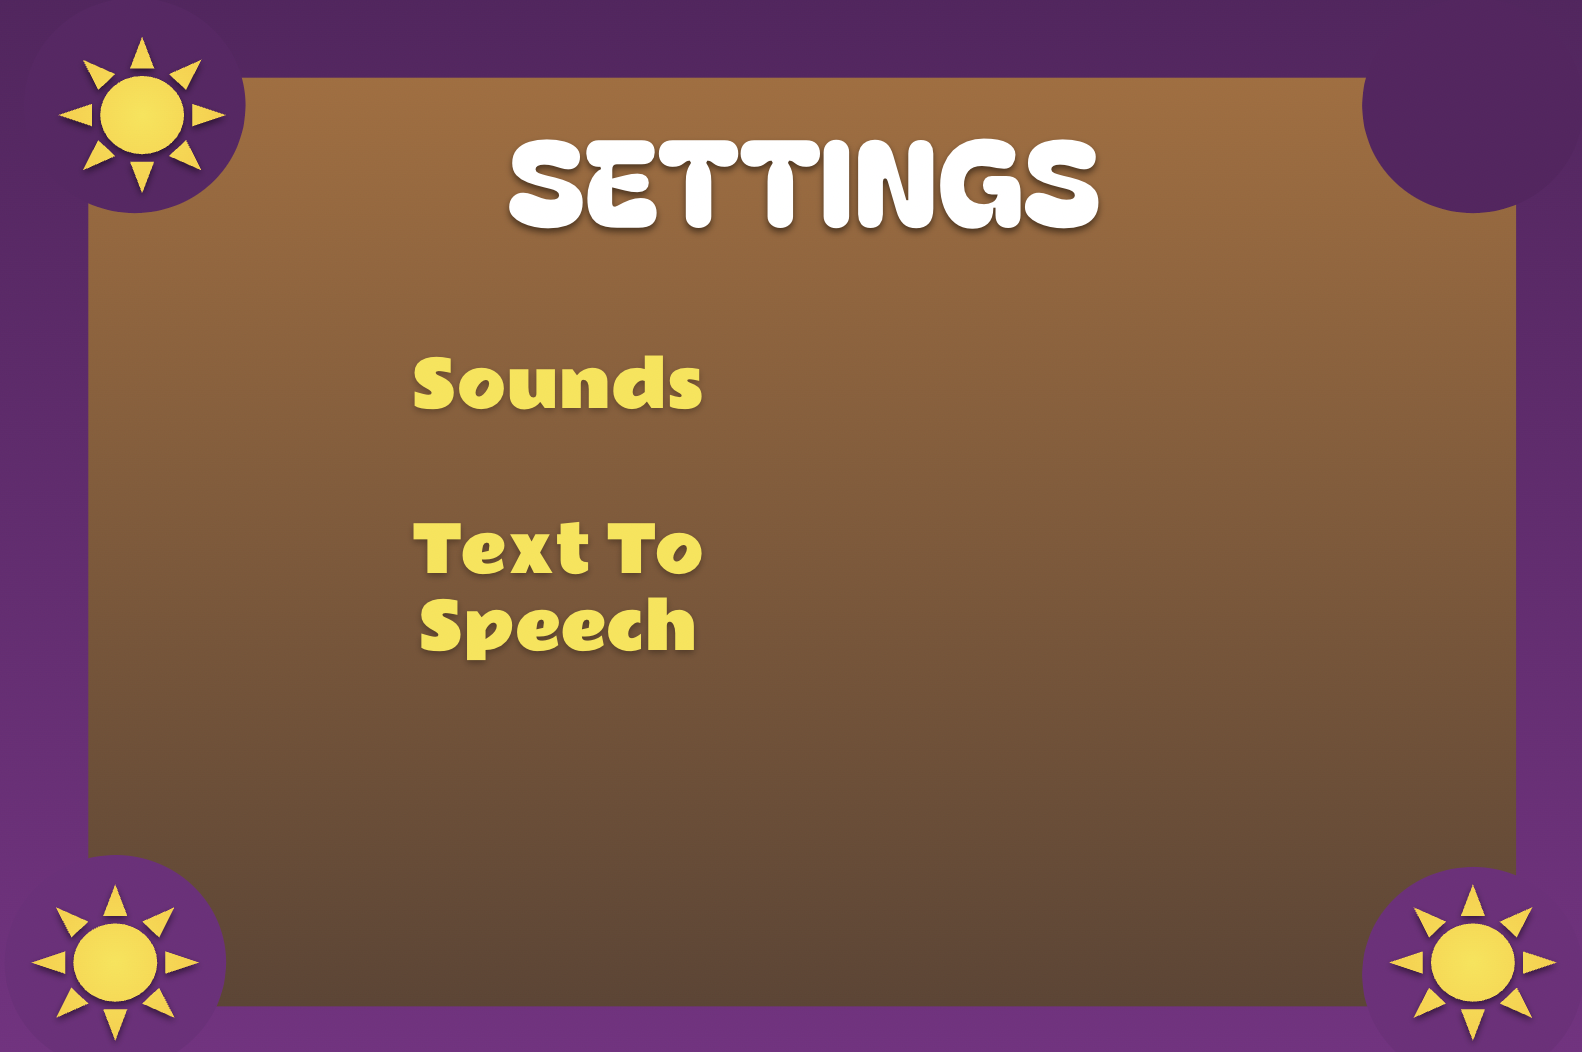
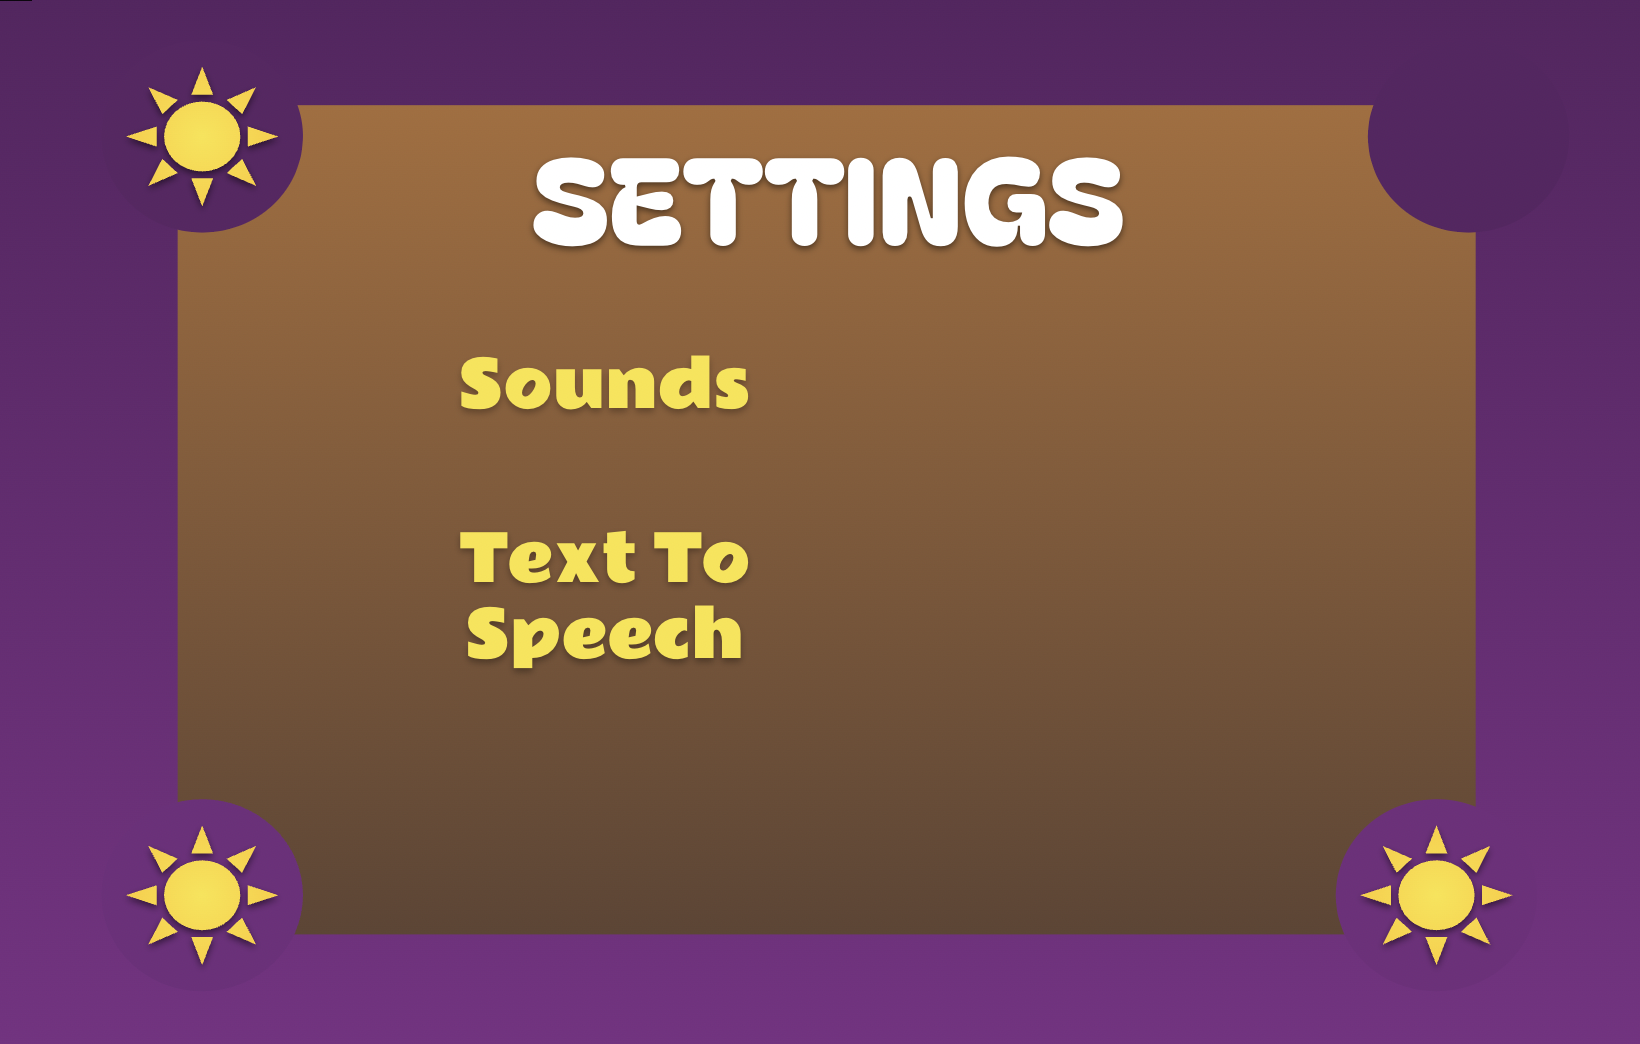
feat: no text to speech when it is turned off
This commit adds the new feature of disabling text to speech when it is turned off throught the settings. Settings scene also updated to match bigger size

Changed region(s): [[0.031, 0.0307, 0.9912, 0.9808], [0.2478, 0.4904, 0.4646, 0.6437], [0.2478, 0.3372, 0.4646, 0.3985]]

diff --git a/src/main/java/nz/ac/auckland/se206/controllers/LabController.java b/src/main/java/nz/ac/auckland/se206/controllers/LabController.java
@@ -393,25 +393,32 @@ public class LabController implements TimeManager.TimeUpdateListener {
     if (GameState.isRiddleResolved && !GameState.isLabCollected) {
       imgViewIngredient.setVisible(true);
       txtSpeech.setText("What a pretty gem!");
-      // textToSpeech.speak("What a pretty gem!");
-            Thread speachThread =
-          new Thread(
-              () -> {
-                textToSpeech.speak("What a pretty gem!");;
-              });
-      speachThread.start();
+
+      if (GameState.isTextToSpeechEnabled == true) {
+        // textToSpeech.speak("What a pretty gem!");
+        Thread speachThread =
+            new Thread(
+                () -> {
+                  textToSpeech.speak("What a pretty gem!");
+                  ;
+                });
+        speachThread.start();
+      }
       pnSpeech.setVisible(true);
       imgViewJewellery.setVisible(false);
       animationLabObjectThread.start();
     } else {
       txtSpeech.setText("The jewellery box is locked");
-      //textToSpeech.speak("The jewellery box is locked");
-      Thread speachThread =
-      new Thread(
-          () -> {
-             textToSpeech.speak("The jewellery box is locked");
-          });
-    speachThread.start();
+
+      if (GameState.isTextToSpeechEnabled == true) {
+        // textToSpeech.speak("The jewellery box is locked");
+        Thread speachThread =
+            new Thread(
+                () -> {
+                  textToSpeech.speak("The jewellery box is locked");
+                });
+        speachThread.start();
+      }
       pnSpeech.setVisible(true);
     }
   }
@@ -426,13 +433,15 @@ public class LabController implements TimeManager.TimeUpdateListener {
     // Indicate that the lever is pulled
     GameState.isLeverPulled = true;
     txtSpeech.setText("The jewellery box is playing music!");
-    // textToSpeech.speak("The jewellery box is playing music!");
-    Thread speachThread =
-      new Thread(
-          () -> {
-              textToSpeech.speak("The jewellery box is playing music!");
-          });
-    speachThread.start();
+    if (GameState.isTextToSpeechEnabled == true) {
+      // textToSpeech.speak("The jewellery box is playing music!");
+      Thread speachThread =
+          new Thread(
+              () -> {
+                textToSpeech.speak("The jewellery box is playing music!");
+              });
+      speachThread.start();
+    }
     pnSpeech.setVisible(true);
     imgViewJewellery.setVisible(true);
     // Start the animtion of the jewellery box
@@ -464,13 +473,16 @@ public class LabController implements TimeManager.TimeUpdateListener {
       pnCauldronOpacity.setVisible(true);
       // Make the wizard inform the user on what to do
       txtSpeech.setText("Follow the recipe to make the shrinking potion!");
-      // textToSpeech.speak("Follow the recipe to make the shrinking potion!");
-      Thread speachThread =
-      new Thread(
-          () -> {
-              textToSpeech.speak("Follow the recipe to make the shrinking potion!");
-          });
-    speachThread.start();
+
+      if (GameState.isTextToSpeechEnabled == true) {
+        // textToSpeech.speak("Follow the recipe to make the shrinking potion!");
+        Thread speachThread =
+            new Thread(
+                () -> {
+                  textToSpeech.speak("Follow the recipe to make the shrinking potion!");
+                });
+        speachThread.start();
+      }
 
       pnSpeech.setVisible(true);
     }
@@ -658,14 +670,16 @@ public class LabController implements TimeManager.TimeUpdateListener {
   @FXML
   private void onIngredientClicked(MouseEvent event) {
     if (GameState.isRiddleResolved) {
-      // Play the textToSpeech using a thread to make sure the app doesnt freeze
-      Thread speachThread =
-          new Thread(
-              () -> {
-                //TextToSpeech textToSpeech = new TextToSpeech();
-                textToSpeech.speak("Item picked up");
-              });
-      speachThread.start();
+      if (GameState.isTextToSpeechEnabled == true) {
+        // Play the textToSpeech using a thread to make sure the app doesnt freeze
+        Thread speachThread =
+            new Thread(
+                () -> {
+                  // TextToSpeech textToSpeech = new TextToSpeech();
+                  textToSpeech.speak("Item picked up");
+                });
+        speachThread.start();
+      }
       // Remove the item and update the GameState
       GameState.isLabCollected = true;
       GameState.itemsCollected++;
@@ -699,13 +713,16 @@ public class LabController implements TimeManager.TimeUpdateListener {
       App.setUi(AppUi.WIN);
     } else {
       txtSpeech.setText("You can't escape yet! The potion hasn't been made");
-      // textToSpeech.speak("You can't escape yet! The potion hasn't been made");
-      Thread speachThread =
-      new Thread(
-          () -> {
-              textToSpeech.speak("You can't escape yet! The potion hasn't been made");
-          });
-    speachThread.start();
+
+      if (GameState.isTextToSpeechEnabled == true) {
+        // textToSpeech.speak("You can't escape yet! The potion hasn't been made");
+        Thread speachThread =
+            new Thread(
+                () -> {
+                  textToSpeech.speak("You can't escape yet! The potion hasn't been made");
+                });
+        speachThread.start();
+      }
       pnSpeech.setVisible(true);
     }
   }

diff --git a/src/main/java/nz/ac/auckland/se206/controllers/ForestRoomController.java b/src/main/java/nz/ac/auckland/se206/controllers/ForestRoomController.java
@@ -78,7 +78,6 @@ public class ForestRoomController implements TimeManager.TimeUpdateListener {
   @FXML private Text txtSpeech;
   private TextToSpeech textToSpeech = new TextToSpeech();
 
-
   /** Initializes the room view, it is called when the room loads. */
   public void initialize() {
 
@@ -156,17 +155,18 @@ public class ForestRoomController implements TimeManager.TimeUpdateListener {
                         txtSpeech.setText("You fished up the correct ingredient!");
                         pnSpeech.setVisible(true);
                       });
-                  Thread speachThread =
-                   new Thread(
-                          () -> {
-                            textToSpeech.speak("You fished up the correct ingredient!");;
-                          });
-                  speachThread.start();
-                      
-                      
+                  if (GameState.isTextToSpeechEnabled == true) {
+                    Thread speachThread =
+                        new Thread(
+                            () -> {
+                              textToSpeech.speak("You fished up the correct ingredient!");
+                              ;
+                            });
+                    speachThread.start();
+                  }
+
                   GameState.isFishingComplete = true;
                   correctImageView = imgViewSpiralFrog;
-
                 }
 
                 // he slider should not move anymore
@@ -228,10 +228,15 @@ public class ForestRoomController implements TimeManager.TimeUpdateListener {
                         txtSpeech.setText("You fished up the correct ingredient!");
                         pnSpeech.setVisible(true);
                       });
-                  Thread speachThread =new Thread(() -> {
-                            textToSpeech.speak("You fished up the correct ingredient!");;
-                          });
-                  speachThread.start();
+                  if (GameState.isTextToSpeechEnabled == true) {
+                    Thread speachThread =
+                        new Thread(
+                            () -> {
+                              textToSpeech.speak("You fished up the correct ingredient!");
+                              ;
+                            });
+                    speachThread.start();
+                  }
                   GameState.isFishingComplete = true;
                   correctImageView = imgViewBug;
                 }
@@ -286,10 +291,15 @@ public class ForestRoomController implements TimeManager.TimeUpdateListener {
     if (GameState.isFishingComplete) {
 
       txtSpeech.setText("You fished up the correct ingredient!");
-        Thread speachThread =new Thread(() -> {
-               textToSpeech.speak("You fished up the correct ingredient!");;
-                  });
-              speachThread.start();
+      if (GameState.isTextToSpeechEnabled == true) {
+        Thread speachThread =
+            new Thread(
+                () -> {
+                  textToSpeech.speak("You fished up the correct ingredient!");
+                  ;
+                });
+        speachThread.start();
+      }
 
       pnSpeech.setVisible(true);
       correctImageView.setVisible(false);
@@ -378,13 +388,15 @@ public class ForestRoomController implements TimeManager.TimeUpdateListener {
   @FXML
   private void onIngredientClicked(MouseEvent event) {
     // Play the textToSpeech using a thread to make sure the app doesnt freeze
-    Thread speachThread =
-        new Thread(
-            () -> {
-              TextToSpeech textToSpeech = new TextToSpeech();
-              textToSpeech.speak("Item picked up");
-            });
-    speachThread.start();
+    if (GameState.isTextToSpeechEnabled == true) {
+      Thread speachThread =
+          new Thread(
+              () -> {
+                TextToSpeech textToSpeech = new TextToSpeech();
+                textToSpeech.speak("Item picked up");
+              });
+      speachThread.start();
+    }
     // remove the ingredient and change the GameState
     GameState.isForestCollected = true;
     GameState.itemsCollected++;

diff --git a/src/main/java/nz/ac/auckland/se206/controllers/DragonRoomController.java b/src/main/java/nz/ac/auckland/se206/controllers/DragonRoomController.java
@@ -122,27 +122,21 @@ public class DragonRoomController implements TimeManager.TimeUpdateListener {
     pnSpeech.setVisible(false);
     GameState.currentRoom = "matchGame";
     App.setUi(AppUi.MATCHING);
-    Thread speachThread =
+    if (GameState.isTextToSpeechEnabled == true) {
+      Thread speachThread =
           new Thread(
               () -> {
                 TextToSpeech textToSpeech = new TextToSpeech();
                 textToSpeech.speak("match 3 items to unlock the shelf");
               });
       speachThread.start();
-
+    }
   }
 
   @FXML
   private void onScaleClicked() {
     if (GameState.isMatchGameWon) {
       // If the game is won play the textToSpeech
-      Thread speachThread =
-          new Thread(
-              () -> {
-                TextToSpeech textToSpeech = new TextToSpeech();
-                textToSpeech.speak("Item picked up");
-              });
-      speachThread.start();
       GameState.isScaleCollected = true;
       GameState.itemsCollected++;
       // Remove the wizard speech bubble and remove the item
@@ -150,13 +144,15 @@ public class DragonRoomController implements TimeManager.TimeUpdateListener {
       pnSpeech.setVisible(false);
     } else {
       pnSpeech.setVisible(true);
-      Thread speachThread =
-          new Thread(
-              () -> {
-                TextToSpeech textToSpeech = new TextToSpeech();
-                textToSpeech.speak("You can't pick it up! Unlock the shelf first.");
-              });
-      speachThread.start();
+      if (GameState.isTextToSpeechEnabled == true) {
+        Thread speachThread =
+            new Thread(
+                () -> {
+                  TextToSpeech textToSpeech = new TextToSpeech();
+                  textToSpeech.speak("You can't pick it up! Unlock the shelf first.");
+                });
+        speachThread.start();
+      }
     }
   }
 
@@ -225,10 +221,9 @@ public class DragonRoomController implements TimeManager.TimeUpdateListener {
     App.setUi(AppUi.AICHAT);
   }
 
-
   /**
    * Handles the Mouse Event 'on Mouse Click' for the ImageView imgViewSettings.
-   * 
+   *
    * @param event
    */
   @FXML

diff --git a/src/main/java/nz/ac/auckland/se206/controllers/MatchingGameController.java b/src/main/java/nz/ac/auckland/se206/controllers/MatchingGameController.java
@@ -234,13 +234,15 @@ public class MatchingGameController implements TimeManager.TimeUpdateListener {
       GameState.isMatchGameWon = true;
       System.out.println("Game won");
       txtSpeech.setText("You found 3 pairs! Dragon ingredient is now unlocked");
-      Thread speachThread =
-          new Thread(
-              () -> {
-                TextToSpeech textToSpeech = new TextToSpeech();
-                textToSpeech.speak("You found 3 pairs! Dragon ingredient is now unlocked");
-              });
-      speachThread.start();
+      if (GameState.isTextToSpeechEnabled == true) {
+        Thread speachThread =
+            new Thread(
+                () -> {
+                  TextToSpeech textToSpeech = new TextToSpeech();
+                  textToSpeech.speak("You found 3 pairs! Dragon ingredient is now unlocked");
+                });
+        speachThread.start();
+      }
 
       txtSpeech.setVisible(true);
       btnSpeechExit.setVisible(true);
